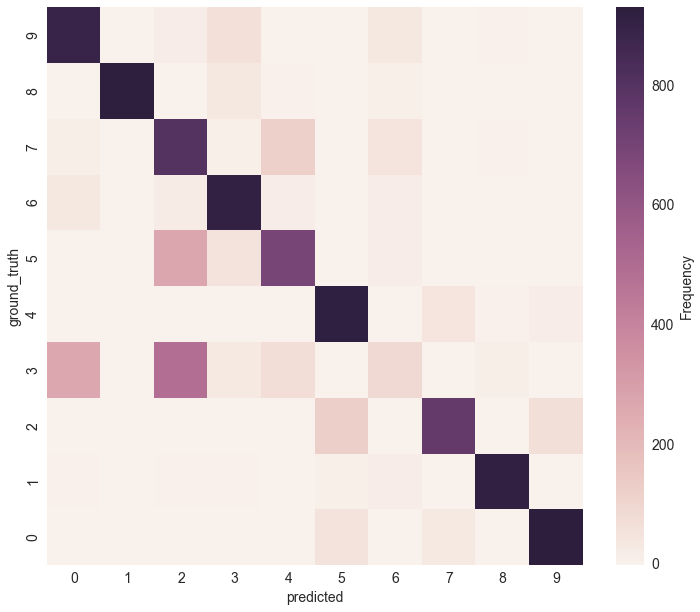
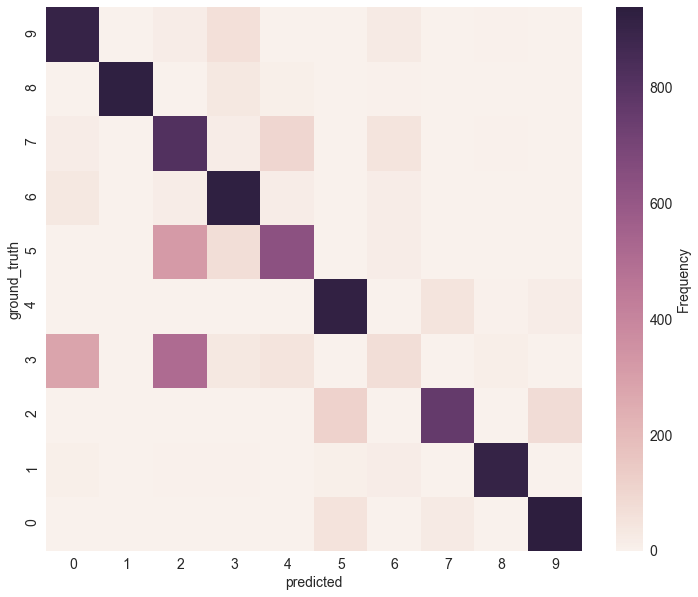
updated results and text

diff --git a/results/experiment.md b/results/experiment.md
@@ -4,17 +4,17 @@ The network was presented with a dataset of 60,000 observations and 128 features
 
 In order to ensure the results were as unbiased as possible, the dataset was randomly shuffled and split into 3 different buckets. 40,000 shuffled rows became the training set, another 10,000 became a testing/monitoring set, and a final 10,000 were used for a validation set. This ensured that the model had no chance of overfitting to the training set, as well as ensuring honesty in the results by not hyper-parameter tuning to the test set.
 
-The model was trained via stochastic gradient descent with mini-batching, for 200,000 iterations or 5 Epochs of the training data. This took approximately 2 hours on a 2015 Macbook Pro. Batch size was 200, and training rate was 1e-3. The network was initialised with 2 hidden layers, 500 nodes in each hidden layer, and ReLU activation. The results of the model are discussed below:
+The model was trained via stochastic gradient descent with mini-batching, for 200,000 iterations or 5 Epochs of the training data. This took approximately 90 minutes on a linux desktop with a 2017 Intel Core i5 processor. Batch size was 200, and training rate was 1e-3. The network was initialised with 2 hidden layers, 500 nodes in each hidden layer, and ReLU activation. The results of the model are discussed below:
 
 3.1 Accuracy
 
-The model accuracy was high for a ten-class problem at 74.29% on the validation set. Naive guess would give a performance of 10%, so the model does 7.4 times better than random. The accuracy on the test set was XX.XX percent, and the accuracy on the training data was XX.XX percent. This indicates that the model was generalising well and that overfitting was not an issue.
+The model accuracy was high for a ten-class problem at 78.17% on the validation set. Naive guess would give a performance of 10%, so the model does 7.8 times better than random. The accuracy on the test set was 79.07%, and the accuracy on the training data was 78.91%. This indicates that the model was generalising well and that overfitting was not an issue. This demonstrates the regularization effectiveness of including dropout in the network.
 
 3.2 Extensive Analysis
 
 3.2.1 Confusion Matrix
 
-The confusion matrix is a powerful visualisation of model performance. The confusion matrix of the network's performance on the validation data suggests that the model struggles to recognise classes 6 and 4 - there are more incorrect predictions of data in these classes than correct ones. Most other classes, however, are predicted well and this reflects the high accuracy scores explored in the previous section.
+The confusion matrix is a powerful visualisation of model performance. The confusion matrix of the network's performance on the validation data suggests that the model struggles to recognise class 6 - there are more incorrect predictions of data in this classes than correct ones. Most other classes, however, are predicted well and this reflects the high accuracy scores explored in the previous section.
 
 3.2.2 Precision, Recall and F-score
 
@@ -34,7 +34,5 @@ The ROC-AUC score is more forgiving than Precision, Recall and F-score, since it
 3.2.4 Training Time and Convergence
 
 The model saw rapid improvement very quickly but further gains were much slower and progress was not monotonic. Graphing this over training iterations, it is clear that the model was able to push past local minima towards a better solution. A deep trough early in training can be explained by the momentum of parameter updates carrying the model past a promising initial solution, since the rate of parameter change was initially large. Also, while the rate of improvement had diminished, the visualisation suggests that better results could be achieved given additional iterations. This was not explored in the interests of keeping runtimes feasible.
-
-
 
 

diff --git a/results/discussion.md b/results/discussion.md
@@ -1,3 +1,9 @@
 The model performed well, but not overwhelmingly. Accuracy, precision, recall and f score did not exceed 80% on validation, though whether this could have been achieved with additional training is unclear. On multiclass problems such as MNIST, neural networks can achieve accuracy scores over 95%, and we expected to see similar performance given the dataset provided had over a hundred features. It was also disappointing to see the performance imbalances stay incorrected - classes that needed more focus could have perhaps been prioritised via gradient-boosting, which presents an opportunity for further inquiry.
 
 The solution was fast, but still took a long time to achieve. Part of this was the reporting and printing overhead - if the user can tolerate a worse granularity on training progress, there would be some improvement in training times. The size of the neural network was also a factor, with 500 nodes in each hidden layer increasing the training resources required.
+
+The model itself was very delicate - since everything is so highly dependent on the correct calculations of the previous step, coding the model from scratch was a frustrating process. Implementations that relied too much on classes were hard to debug. It was disheartening to have the model break when trying to add a supposedly modular feature, especially when forward-pass would work well but backward-pass would not. Part of this is because it is often hard to find the cause of a problem. When the neural network was not converging, or exploding, it could be difficult to pinpoint the exact cause of the problem. Indeed, it was only by examining working neural networks and through techniques like manual calculations of gradients that we were able to create a functioning solution.
+
+References:
+
+Tensorflow 97% MNIST result tutorial: https://www.tensorflow.org/tutorials/layers
